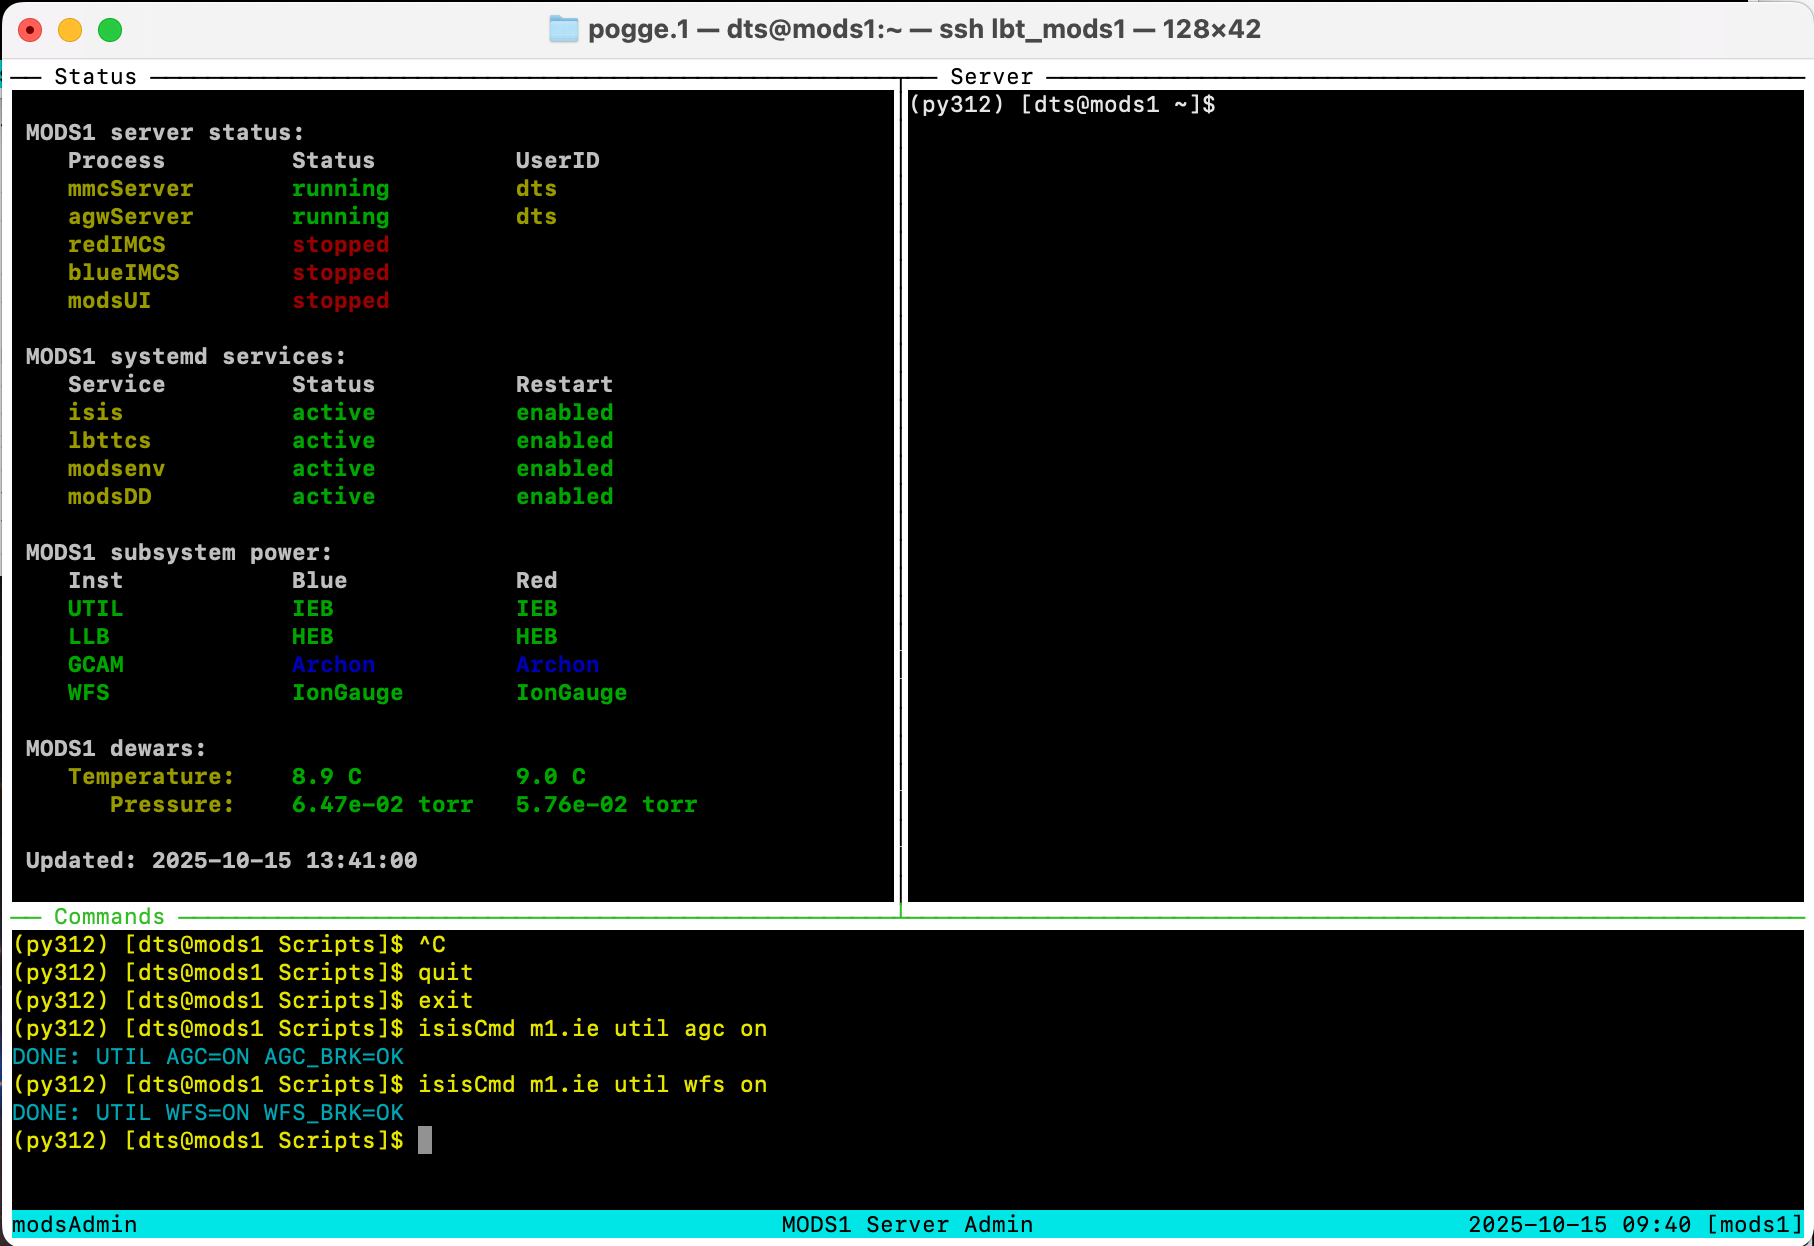
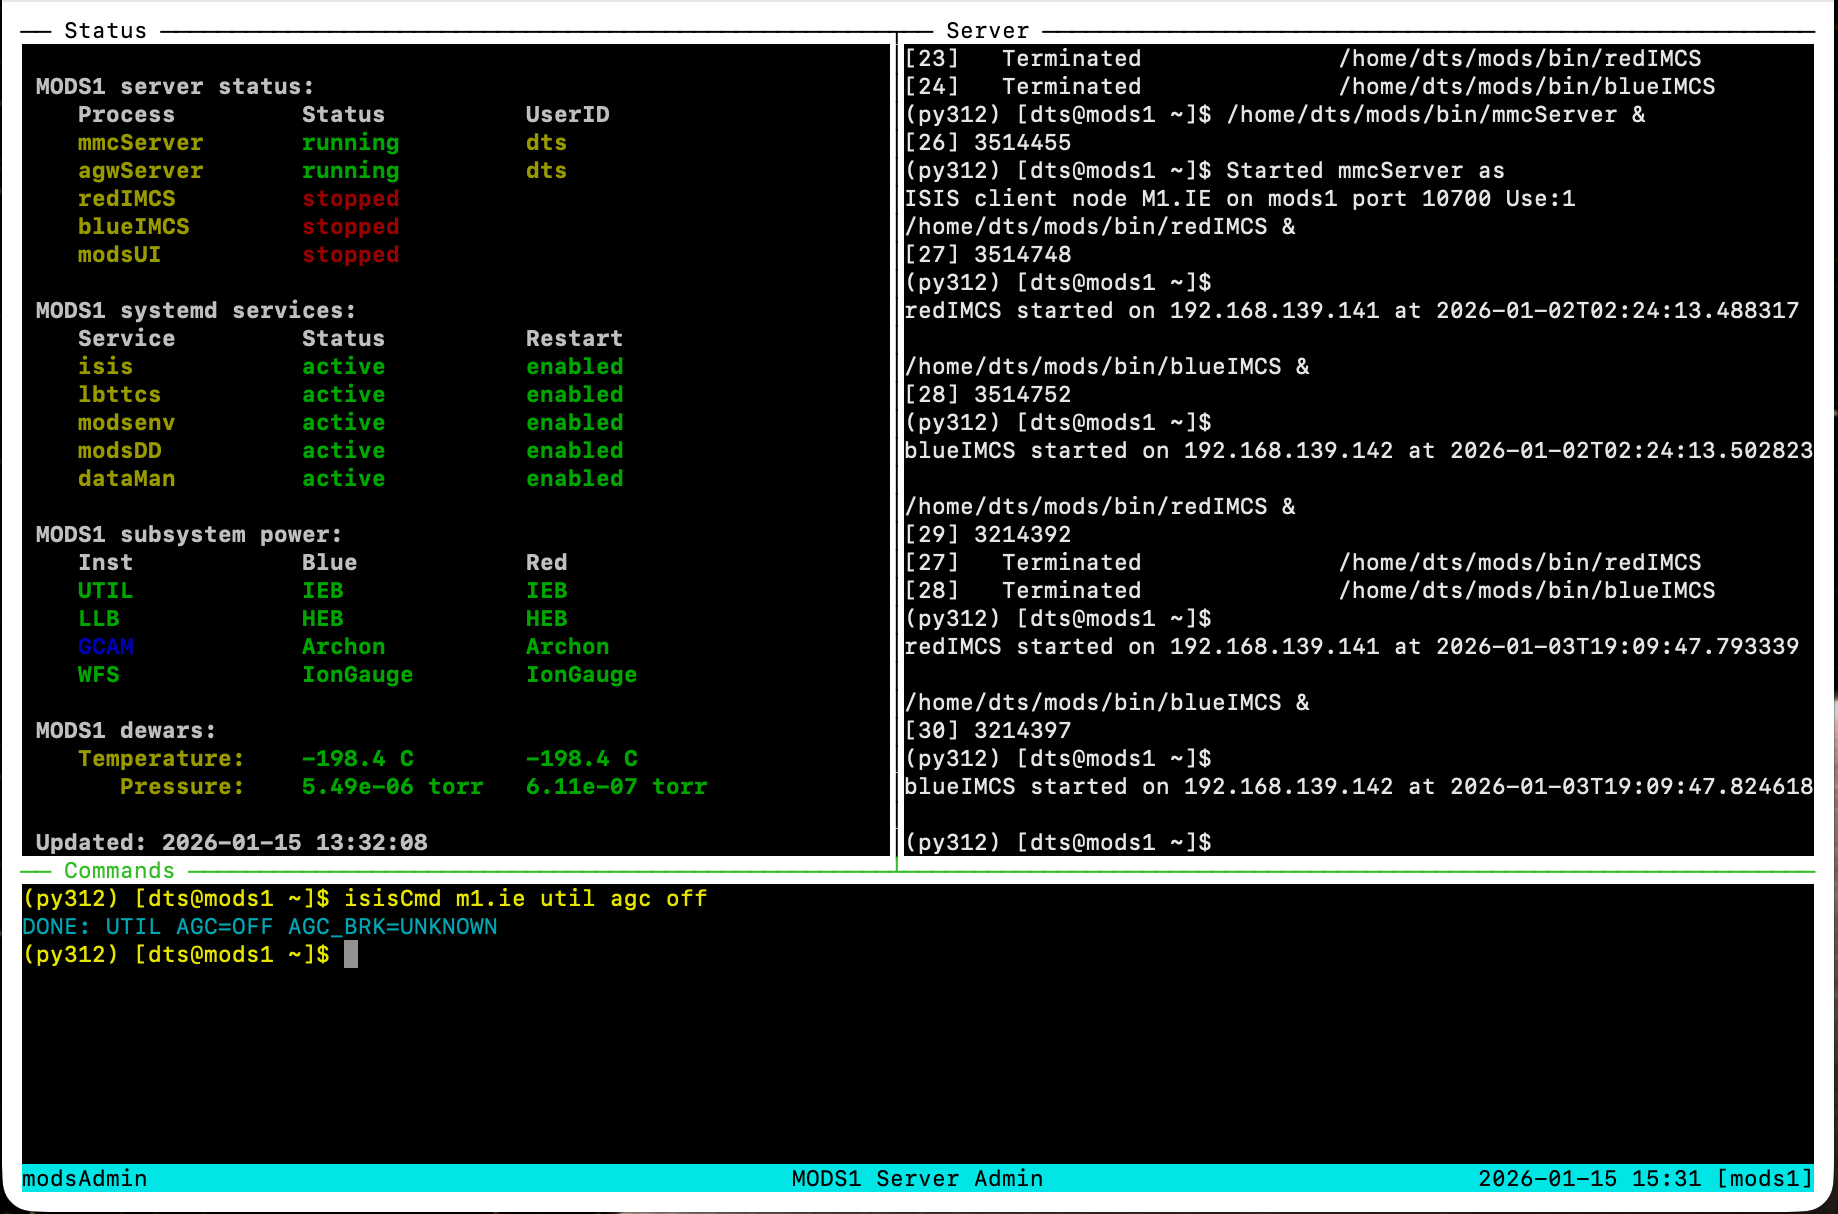
doc updates

Changed region(s): [[0.0, 0.0, 1.0, 1.0], [0.2778, 0.2743, 0.3396, 0.4267], [0.2778, 0.4572, 0.3396, 0.5791]]

diff --git a/Scripts/readme.md b/Scripts/readme.md
@@ -172,7 +172,7 @@ computer logged into the `mods1` server at LBT.  Because it works with
 a terminal, not a screen share, it is fast and sharp.
 
 
-![mods1 server admin tmux session live test with MODS1 on 2025 Oct 15](Screenshots/mods1_agwOn.png)
+![mods1 server admin tmux session with AGW on and just turned AGC off](Screenshots/mods1_agwOn.png)
 
 ### `modsAdmin` monitor session
 
